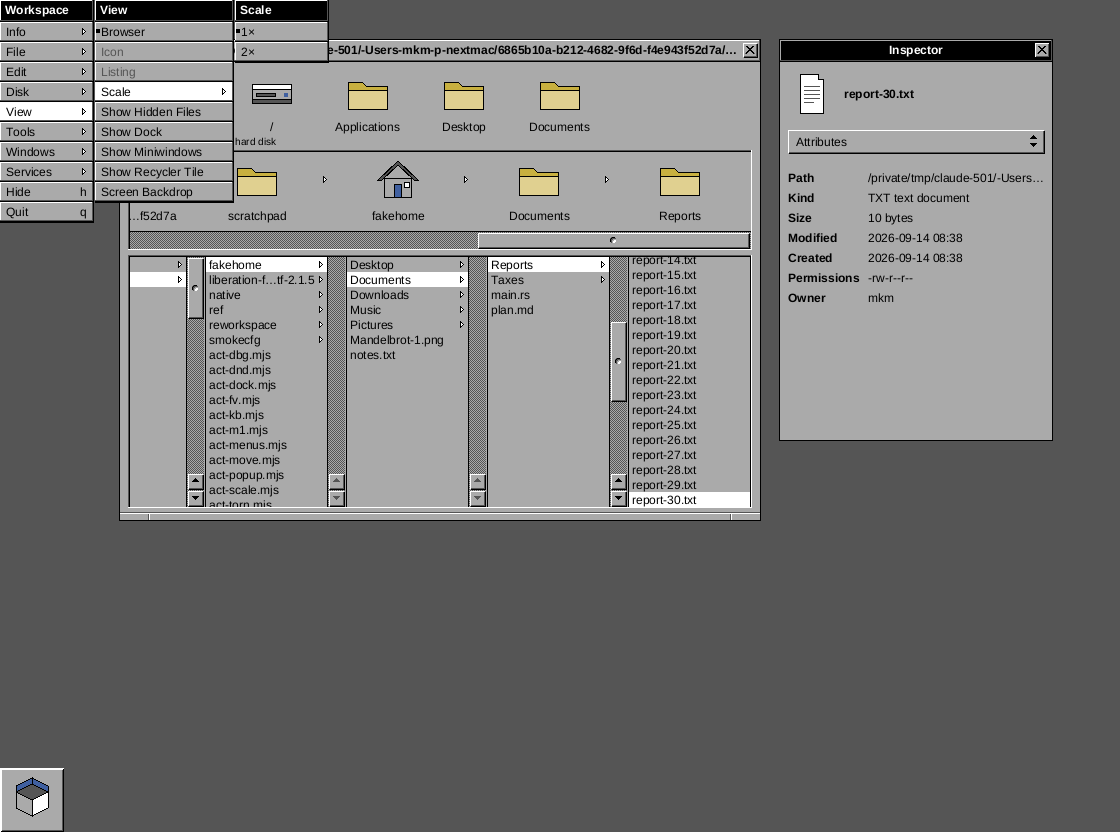
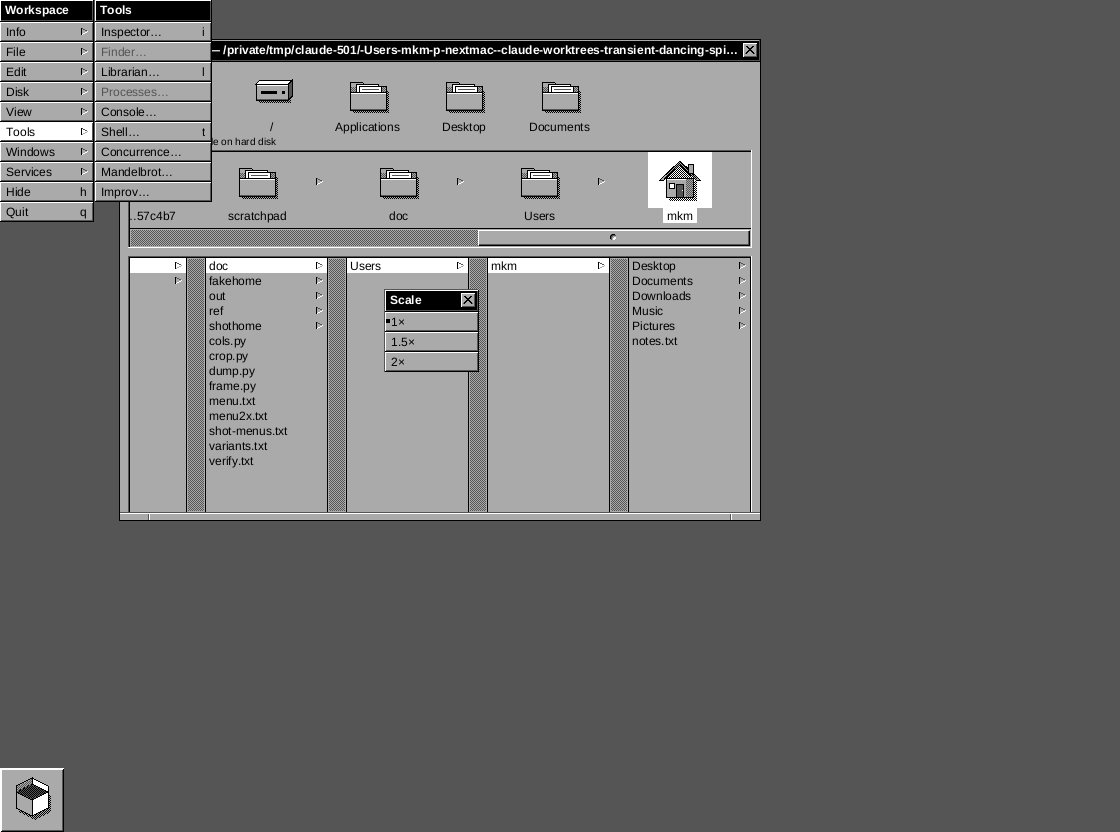
Menus: the 1 px dark bezel along their top and left
NeXT menus carry a dark-gray row and column just outside the white
highlight, so the whole frame reads dark → white → face → dark → black.
We never drew it, and each menu's window was one pixel too small and too
far right to hold it.

It is invisible in almost every reference screenshot because menus sit at
the Screen corner and the bezel falls off-screen — which is why the same
menu reads `D W` at x=0,1 in ns10kill/ns10library/ns10netinfo but `W` at
x=0 in ns10about/ns20views/ns33mail. ns20services.png shows it plainly at
x=176: the column between a parent menu's black shadow and an attached
submenu stays dark gray across rows 38–41, where the File Viewer behind
it is black and white, and stops exactly at the submenu's last row. That
column is the submenu's left bezel, and it is why attached submenus are
offset by 2 px (shadow + bezel) — an offset reattach() already had right.

Verified against ns20views.png: identical at the Screen corner, at the
submenu gap (x=92..96 = W K D W W), and over a window, where the corner
now reads D W instead of L W. docs/screenshots/menus.png is regenerated
(it predated an unrelated title-bevel fix) and shows a torn-off menu over
the File Viewer, where the bezel is visible against light gray.

diff --git a/src/app.rs b/src/app.rs
@@ -1025,7 +1025,7 @@ impl App {
             if self.state.miniwindows_visible {
                 for w in &self.wins { if let Some(slot) = w.mini { v.push(sf(SurfaceId::Miniwin(w.kind), miniwindow_rect(slot, self.h), Level::Top, &w.title)); } }
             }
-            for m in &self.menus { let r = m.rect(); v.push(sf(SurfaceId::Menu(m.id), rect(r.x, r.y, r.w + 1, r.h), Level::Top, &m.title)); }
+            for m in &self.menus { let r = m.rect(); v.push(sf(SurfaceId::Menu(m.id), rect(r.x - 1, r.y - 1, r.w + 2, r.h + 1), Level::Top, &m.title)); }
         }
         if self.alert.is_some() { let r = self.win(WinKind::Alert).r; v.push(sf(SurfaceId::Win(WinKind::Alert), rect(r.x - 1, r.y - 1, r.w + 2, r.h + 2), Level::Top, "Alert")); }
         if self.dragging().is_some() { v.push(sf(SurfaceId::Ghost, rect(self.mouse.x - 24, self.mouse.y - 24, 48, 48), Level::Top, "")); }
@@ -1185,6 +1185,28 @@ mod tests {
         assert_eq!(app.menus.len(), 1);
         assert_eq!(app.menus[0].id, main);
         assert_eq!(app.menus[0].open_item, None);
+    }
+
+    /// The bezel is drawn one pixel outside the face, so the menu's own window has to reach that far or it is clipped away.
+    #[test]
+    fn menu_window_covers_the_dark_bezel_on_its_top_and_left() {
+        let mut app = App::test_app();
+        let main = app.menus[0].id;
+        let i = app.menu_index(main).unwrap();
+        app.menus[i].pos = pt(40, 30); // off the Screen corner, where the bezel would be clipped as it is in the 2.0 shots
+        let sf = app.surfaces().into_iter().find(|s| s.id == SurfaceId::Menu(main)).unwrap();
+        let icons = Icons::load();
+        let (w, h) = (sf.r.w as u32, sf.r.h as u32);
+        let mut px = vec![0u32; (w * h) as usize];
+        {
+            let mut p = Painter::new(Frame { w, h, px: &mut px }, 1.0, &app.fonts, &icons);
+            p.set_origin(sf.r.x, sf.r.y);
+            app.draw_surface(sf.id, &mut p);
+        }
+        let at = |x: i32, y: i32| px[y as usize * w as usize + x as usize] & 0xffffff;
+        assert_eq!((at(0, 0), at(1, 0), at(0, 1)), (DARK, DARK, DARK), "dark bezel row/column");
+        assert_eq!(at(1, 1), WHITE, "white highlight inside the bezel");
+        assert_eq!(at(sf.r.w - 1, 1), BLACK, "black shadow column on the right");
     }
 
     #[test]

diff --git a/src/chrome.rs b/src/chrome.rs
@@ -328,7 +328,7 @@ impl MenuInst {
         w.max(93)
     }
     pub fn height(&self) -> i32 { MENU_TITLE_H + self.items.len() as i32 * MENU_ITEM_H }
-    /// Face rectangle (the black shadow column lies just outside it, on the right).
+    /// Face rectangle; the dark bezel row/column lie just outside it on the top and left, the black shadow on the right.
     pub fn rect(&self) -> Rect { rect(self.pos.x, self.pos.y, self.w, self.height()) }
     pub fn title_rect(&self) -> Rect { rect(self.pos.x, self.pos.y, self.w, MENU_TITLE_H) }
     pub fn close_rect(&self) -> Option<Rect> { (self.kind == MenuKind::Torn).then(|| rect(self.pos.x + self.w - 17, self.pos.y + 3, 14, 14)) }
@@ -342,7 +342,11 @@ impl MenuInst {
 
     pub fn draw(&self, p: &mut Painter, hi: Option<usize>, close_pressed: bool, state: &dyn Fn(&ItemDef) -> (bool, bool)) {
         let r = self.rect();
-        // the only drop shadow is one black column on the right; the bottom ends with the last cell's black row (2.0 shots)
+        // 2.0 bezel: a dark row/column just outside the white highlight on the top and left, one black shadow column on
+        // the right, and no bottom shadow — the menu ends with the last cell's black row. The dark edge is what fills the
+        // gap between a parent menu's shadow and an attached submenu (ns20services.png, x=176).
+        p.hline(r.x - 1, r.y - 1, r.w + 1, DARK);
+        p.vline(r.x - 1, r.y - 1, r.h + 1, DARK);
         p.vline(r.right(), r.y, r.h, BLACK);
         // title: raised black cell (white highlight, dark shadow) + black shadow row
         let tr = self.title_rect();

diff --git a/docs/DECISIONS.md b/docs/DECISIONS.md
@@ -29,7 +29,7 @@ One line per deviation, with the reason.
 The owner then asked for the 2.0 (1990) aesthetics. Measured from toastytech's 2.0 screenshots; where 2.0 differs from 1.0:
 
 - **File Viewer** is the 2.0 layout the PRD describes: shelf icons with 12 px labels straight on the window face and a "…MB available on hard disk" line (`statvfs`; absent on Windows); a sunken well holding the **icon path** with one icon centred above each browser column (root shown as the computer icon, without label), hollow ▷ markers between them, a white box behind the leaf icon and its label, and the **horizontal column scroller** inside the same frame (knob and dimple, no arrows); the browser is a sunken box in which every column is an 18 px **scroller strip** (light margin, 16 px slot with knob and ▲▼ when the column overflows, light margin) plus a 121 px list, separated by a black line; the box has no bottom edge and runs to the resize bar. Column title cells and the ◀▶ strip of 1.0 are gone. Cells are 15 px.
-- **Menus**: a pressed or open item is highlighted **white** with black text (1.0 inverted it to black). The only drop shadow is the 1 px black column on the right; the menu ends with the last item's black row, and every cell's white top row and left column run through the corners (dark edges start one pixel in). Everything else (22 px title bars, glyphs, resize grooves, left-hand scrollers) is unchanged from 1.0.
+- **Menus**: a pressed or open item is highlighted **white** with black text (1.0 inverted it to black). The only drop shadow is the 1 px black column on the right; the menu ends with the last item's black row, and every cell's white top row and left column run through the corners (dark edges start one pixel in). Outside that white highlight the menu carries a 1 px **dark-gray bezel** along its top and left, so the whole frame reads dark → white → face → dark → black. It is invisible in most 1.0/2.0 screenshots because menus sit at the Screen corner and it falls off-screen, but `ns20services.png` shows it at x=176: the column between a parent's black shadow and an attached submenu stays dark gray over a window that is black and white behind it, which is also why submenus are offset by 2 px (shadow + bezel). Each menu's window is therefore 1 px wider and taller than its face, up and to the left. Everything else (22 px title bars, glyphs, resize grooves, left-hand scrollers) is unchanged from 1.0.
 - ▷ markers are the 2.0 glyph measured from the screenshots: a 7×7 engraved triangle (1 px black bar, dark-gray upper edge, white lower edge — light gray on a white selected cell — open face), the same in menus, browser cells and the icon path, with its bar 12 px left of the cell edge. Dock/application/miniwindow tiles use the thinner 2.0 bevel (2 px white, 1 px dark + 1 px black). The Recycler is the 2.0 recycling symbol again (an original three-arrow drawing) instead of the 1.0 black hole.
 
 ## Fractional display scale (v0.4.2)
